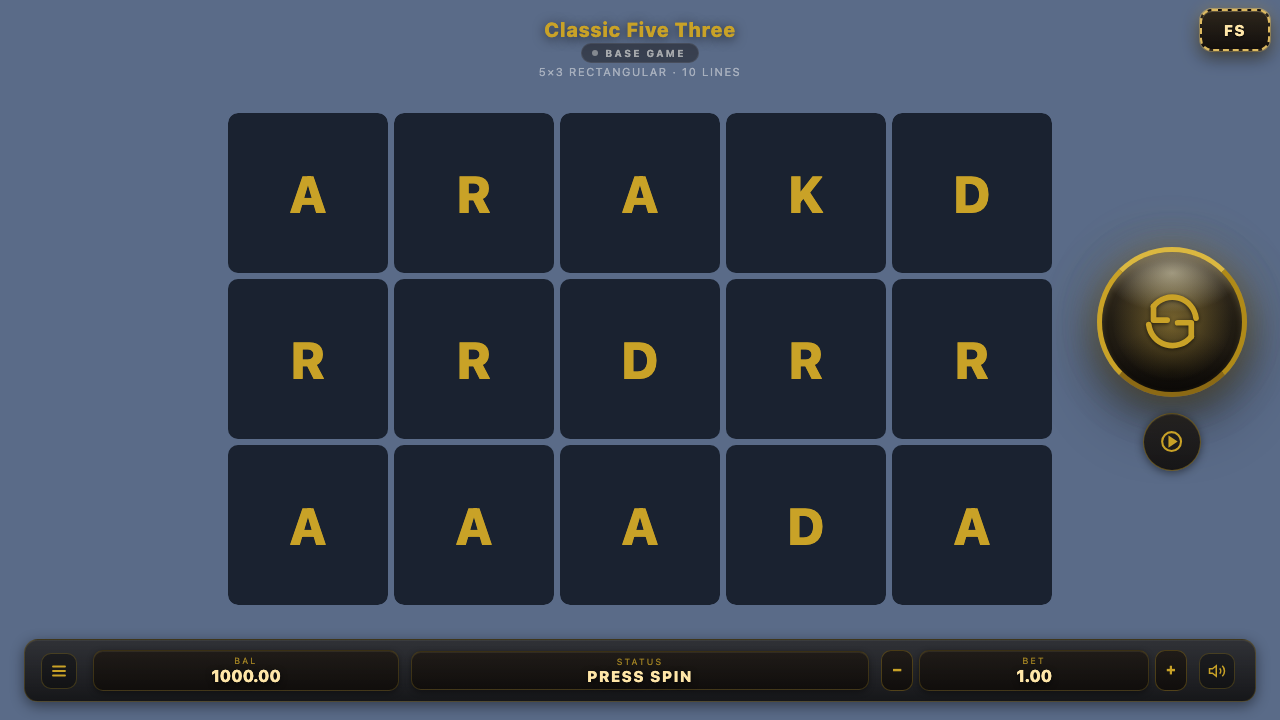
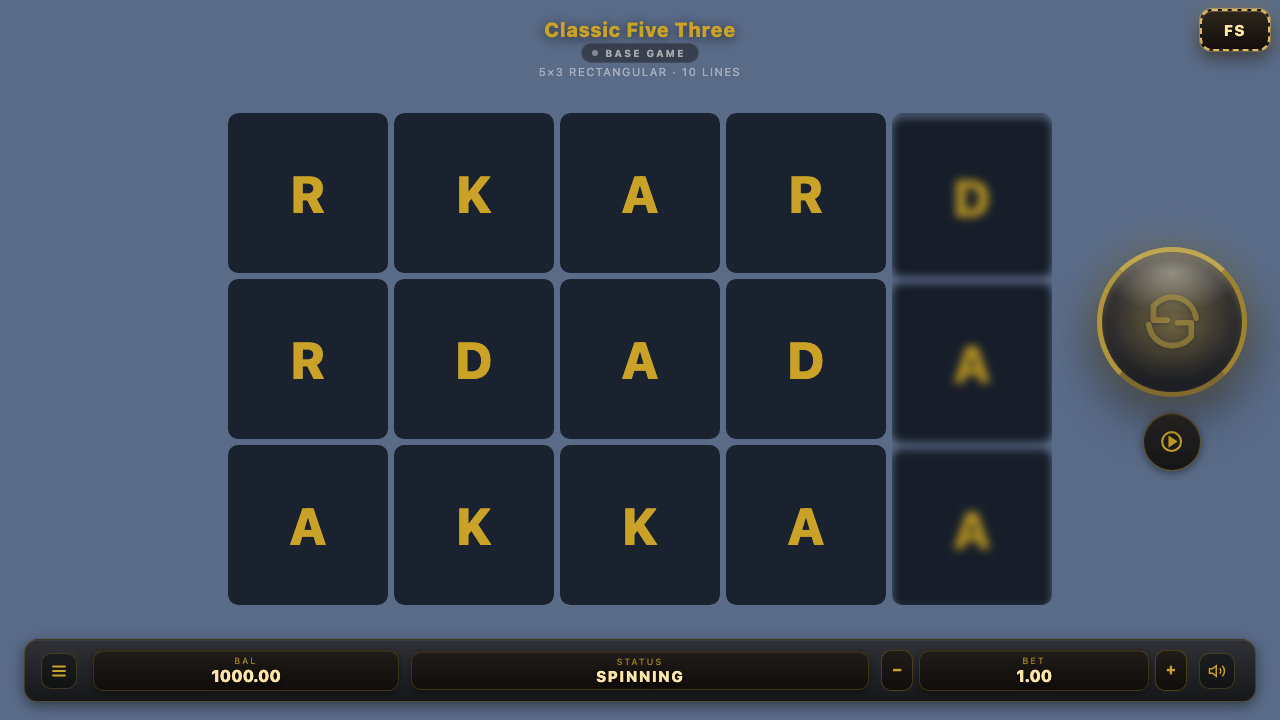
style(win): subtler win-symbol pulse — contained inside the reel cell
Boki rule: the cycling combo MUST NOT bleed outside the reel frame.
Previous pass used scale(1.22-1.25) + external drop-shadow halo — both
crossed the cell edge and clipped against the frame mask.

Hard contract now:
- NO transform (no scale, no rotate) — glyph keeps its native footprint
- NO drop-shadow / external glow — only INSET box-shadow allowed
- Inset gold rim (2px) + soft inner 8px glow, both contained
- brightness pulse on the glyph (1.0 -> 1.28 -> 1.0)
- Neighbour cells dim to 0.30 for cluster contrast
- Per-combo duration shortened 800ms -> 500ms (WoO small-win lineMs)
- prefers-reduced-motion: static inset rim + brightness(1.15), no anim

Visible result: cells just "light up" in place — gold rim, brighter
glyph, dim neighbours. Cycles through up to 3 combos at 500ms each
(~1.5s total max), then full undim back to neutral.

JS perComboMs default lowered to 500 to match the keyframes; cancel
token + handlePostSpin gating untouched.

QA on this commit:
- render-browser-all 23/23 ✅ (0 console errors)

diff --git a/reports/browser-render-latest.md b/reports/browser-render-latest.md
@@ -1,6 +1,6 @@
 # Browser-render QA report
 
-**Generated**: 2026-06-03T13:16:47.902Z
+**Generated**: 2026-06-03T13:42:33.865Z
 **Fixtures**: 23 · **PASS**: 23 · **FAIL**: 0
 
 ## Per-fixture results